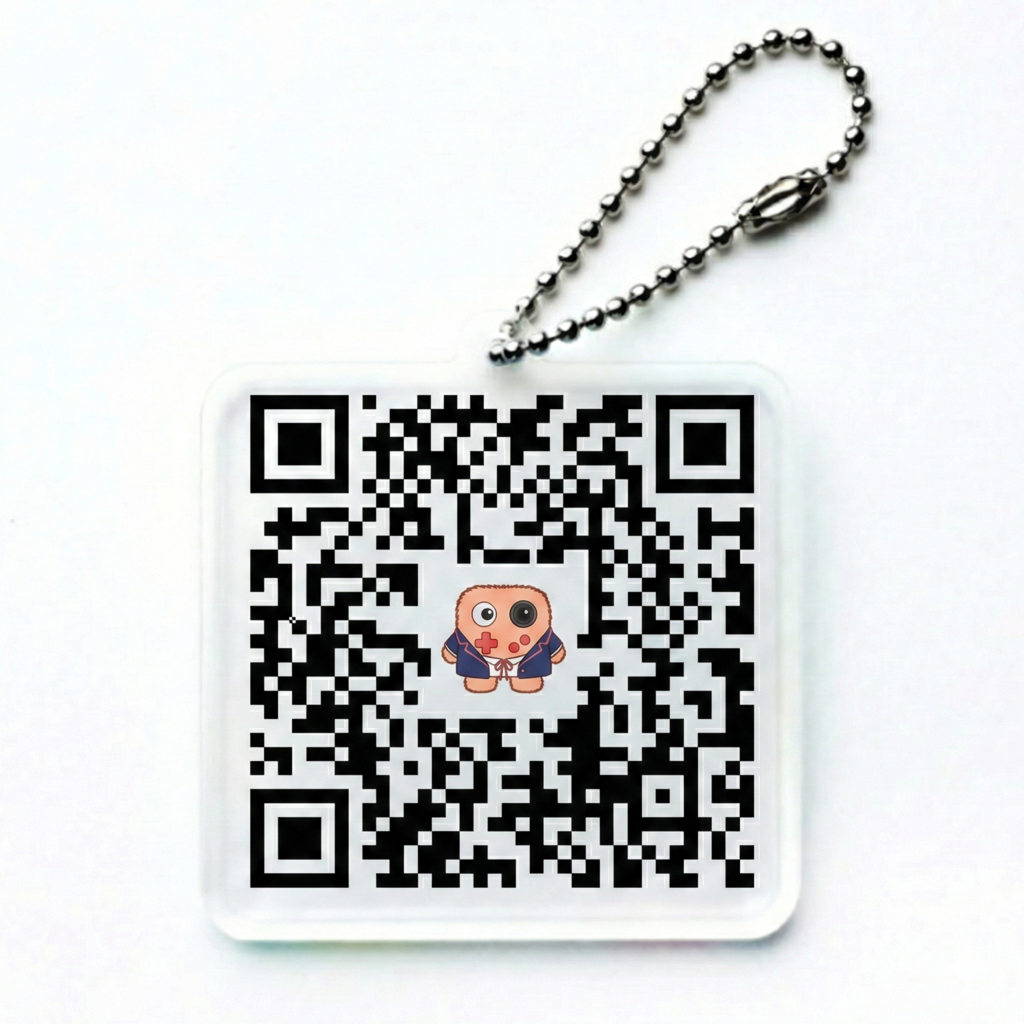
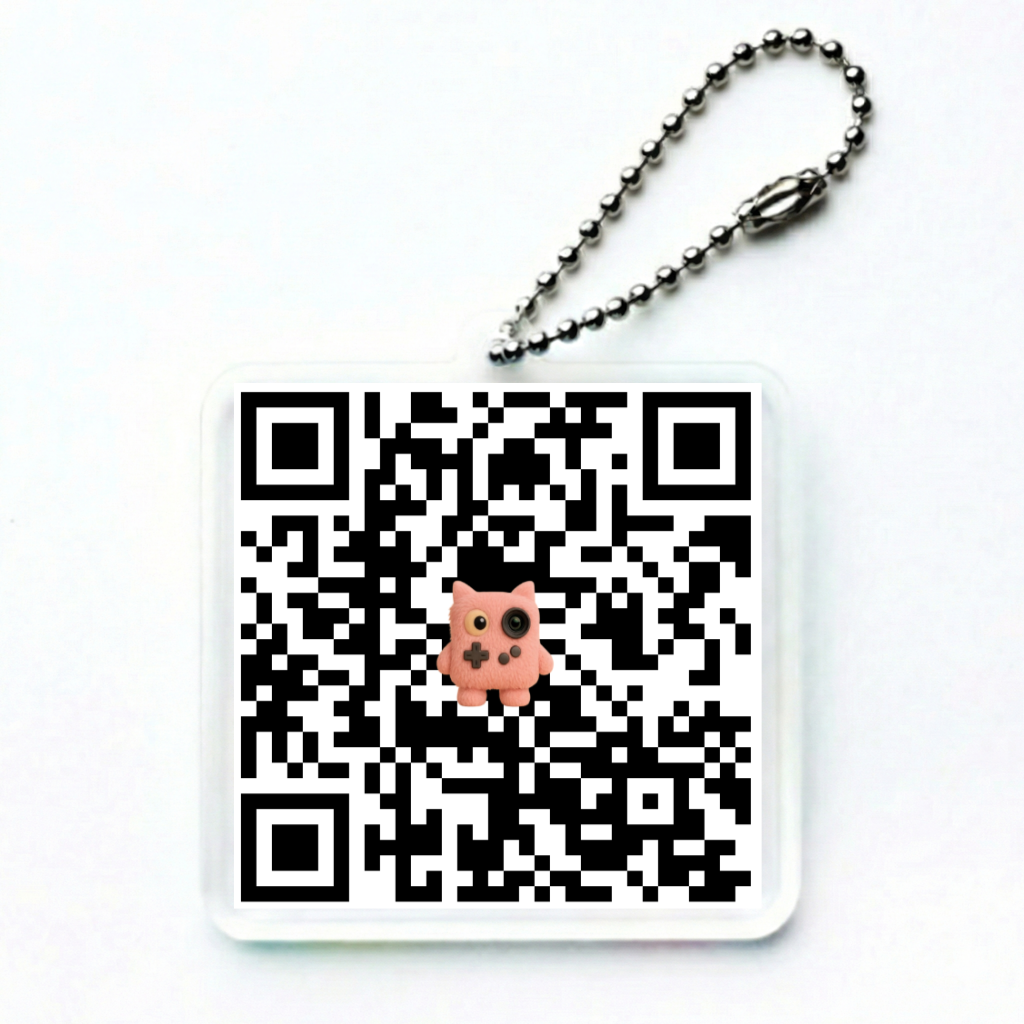
ver98

Changed region(s): [[0.2188, 0.375, 0.75, 0.9062]]

diff --git a/docs/16school/index.html b/docs/16school/index.html
@@ -3061,6 +3061,31 @@ function renderGate(){
             <p class="kicker" style="margin-bottom:16px;">✨ あなたの長所</p>
             <p class="text-body" style="font-size:15px; line-height:1.8; margin:0;">${char.strength}</p>
           </div>
+          
+          <!-- アクリルキーホルダーセクション -->
+          <div class="panel fade-in" style="animation-delay:0.12s; margin-top:24px; background:linear-gradient(145deg, #fff7fb, #fff2e2); border:2px solid rgba(255, 77, 141, 0.2); overflow:hidden; position:relative;">
+            <div style="position:absolute; top:18px; right:-44px; transform:rotate(20deg); background:linear-gradient(135deg, #ffb347, #ffd27f); color:#fff; font-size:11px; letter-spacing:0.18em; padding:6px 48px; text-transform:uppercase;">LIMITED</div>
+            <p class="kicker" style="margin-bottom:12px; color:#ff4d8d;">🎀 限定アクセサリー</p>
+            <h3 style="font-size:20px; margin:0 0 16px; color:var(--text-main);">アクリルキーホルダー</h3>
+            <div style="display:flex; gap:12px; justify-content:center; margin-bottom:18px; background:linear-gradient(145deg, #fff7fb, #fff2e2); border-radius:16px; padding:16px; border:1px solid rgba(255,255,255,0.9);">
+              <img src="key/${char.name}.jpg" alt="アクリルキーホルダー 表面" style="width:45%; max-width:140px; border-radius:12px; object-fit:contain; box-shadow:0 4px 12px rgba(0,0,0,0.1);" onerror="this.style.display='none';">
+              <img src="key/ura.jpg" alt="アクリルキーホルダー 裏面" style="width:45%; max-width:140px; border-radius:12px; object-fit:contain; box-shadow:0 4px 12px rgba(0,0,0,0.1);" onerror="this.style.display='none';">
+            </div>
+            <div style="display:flex; align-items:center; gap:10px; margin-bottom:12px;">
+              <span style="font-size:20px; color:#b65174; font-weight:700; letter-spacing:0.04em;">1,900円</span>
+            </div>
+            <p class="text-body" style="font-size:14px; line-height:1.8; margin:0 0 14px;">
+              <strong>表は${char.name}、裏にはあなたの診断がいつでも見れるQRコード。</strong> 透明感ときらめきで、光を味方にするクリアアクセ。
+            </p>
+            <ul style="margin:0 0 18px; padding-left:18px; color:var(--text-sub); line-height:1.8; font-size:13px;">
+              <li>表裏で違う表情が楽しめるデザイン</li>
+              <li>日常でも特別感を残すサイズ感</li>
+            </ul>
+            <a href="https://buy.stripe.com/bJe14n8lf7Y11yecNNao80a" target="_blank" rel="noopener" style="display:inline-flex; align-items:center; gap:10px; padding:14px 28px; border-radius:999px; font-size:14px; font-weight:600; text-decoration:none; background:linear-gradient(135deg, #ff4d8d, #ff7aa8); color:#fff; box-shadow:0 14px 30px rgba(255, 77, 141, 0.3); transition:transform 0.2s ease;">
+              限定アイテムを手に取る →
+            </a>
+          </div>
+          
           <div class="panel fade-in" style="animation-delay:0.15s; margin-top:24px;">
             <p class="kicker" style="margin-bottom:16px;">⚡ 気をつけたいこと</p>
             <p class="text-body" style="font-size:15px; line-height:1.8; margin:0;">${char.weakness}</p>
